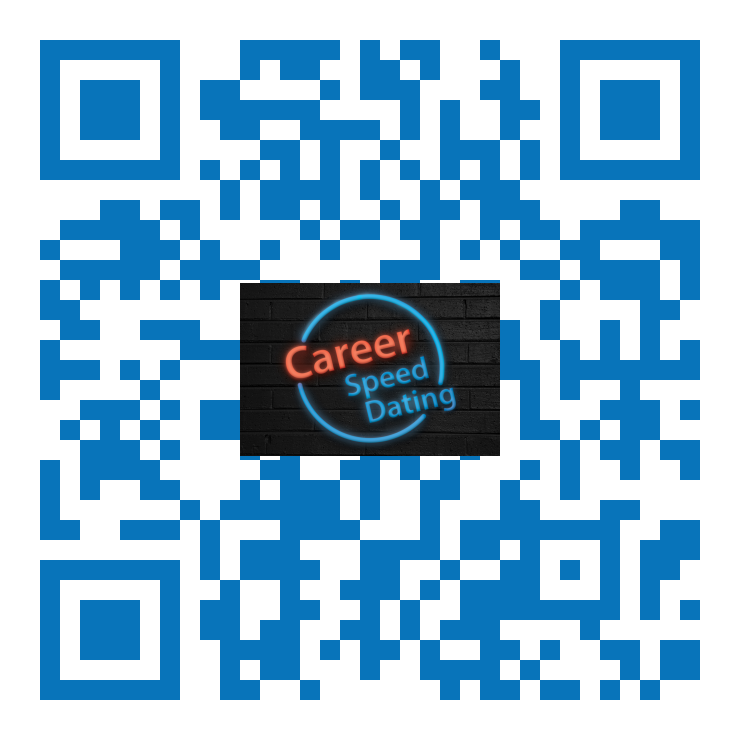
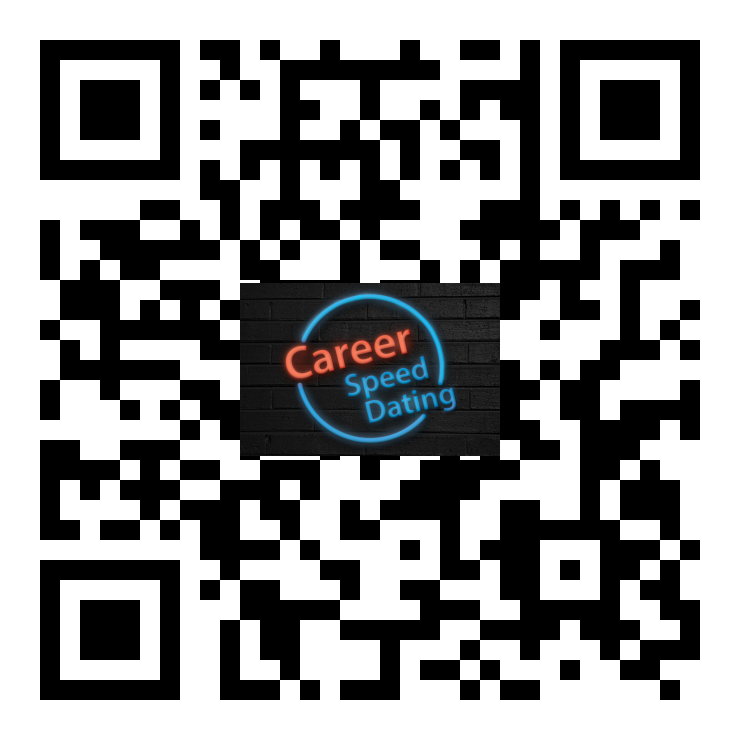
added new qr code and short url

diff --git a/src/Promo/Promo.js b/src/Promo/Promo.js
@@ -21,9 +21,10 @@ class Promo extends Component {
             <div id="content">
               <h1 className="title"><span style={{color: "#ec0a12"}}>Career</span><span style={{color: "#0372b8"}}> Speed Dating</span></h1>
               <div className="instruction">Which company is the best for <span style={{fontWeight: 700, color: "black"}}>YOU</span>?</div>
-              <div className="instruction">Visit <span style={{color: "black", fontSize: "45px", fontWeight: "bold"}}>goo.gl/5oIR</span></div>
+              <div className="instruction">Visit <span style={{color: "black", fontSize: "45px", fontWeight: "bold"}}>https://matchmaking.fer.hr</span></div>
+              <div className="instruction">or <span style={{color: "black", fontSize: "45px", fontWeight: "bold"}}>goo.gl/Y8bP2i</span></div>
               <div className="instruction">or scan:</div>
-              <img src={logoqr} alt="goo.gl/5oIR" height="350"/>
+              <img src={logoqr} alt="goo.gl/Y8bP2i" height="350"/>
               <div className="instruction">to find out!</div>
             </div>
           </div>
